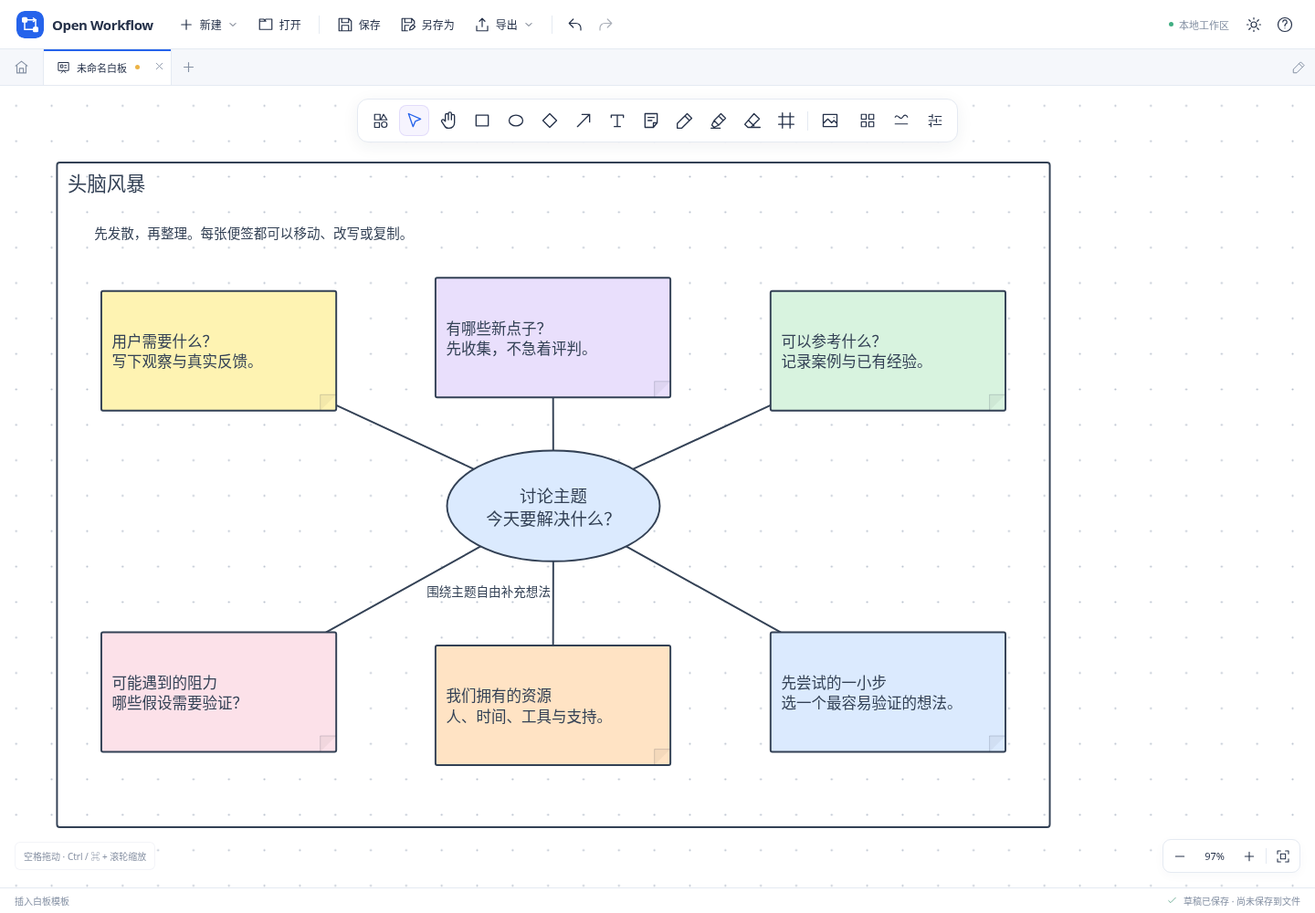
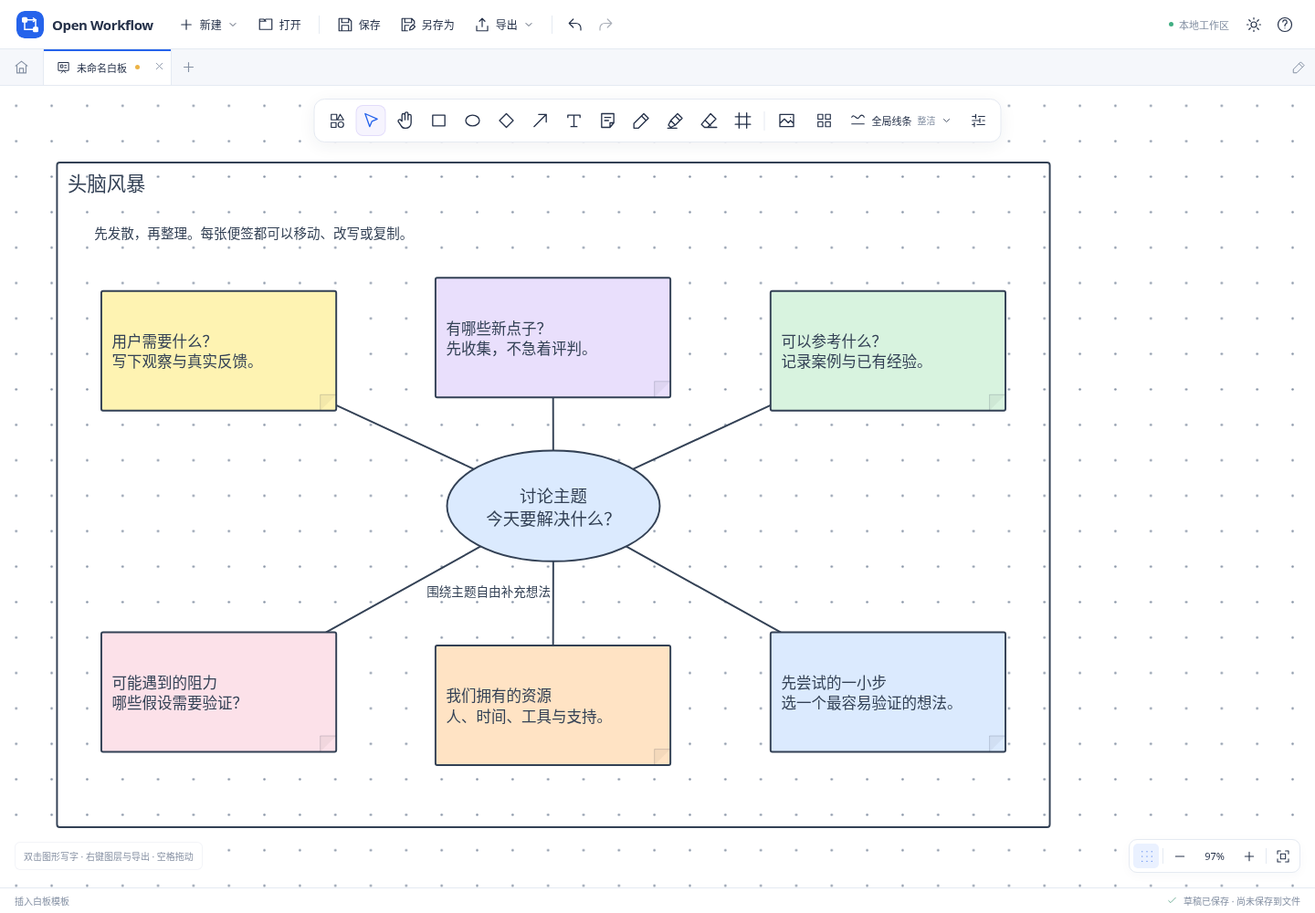
Improve canvas grid contrast and editing controls

Changed region(s): [[0.25, 0.124, 0.7188, 0.155], [0.0312, 0.93, 0.1562, 0.961]]

diff --git a/src/components/SceneEditor.vue b/src/components/SceneEditor.vue
@@ -10,7 +10,7 @@ import { findBindingTarget } from '../core/binding'
 import { expandedSelection, groupElements, ungroupElements, alignElements, distributeElements, hitTestElement, frameContents } from '../core/board-tools'
 import { selectionScene, reorderElements } from '../core/selection'
 import { clone, newId, type EdgeElement, type ElementStyle, type Point, type Scene, type SceneElement, type ShapeElement } from '../core/types'
-import { center, combineBounds, edgePoints, elementBounds, pathMidpoint, sceneBounds, snap, type Bounds } from '../core/geometry'
+import { center, combineBounds, edgePoints, elementBounds, pathMidpoint, sceneBounds, shapeAnchor, snap, type Bounds } from '../core/geometry'
 import { elementToSvg, safeImageData } from '../core/svg'
 import { layoutScene } from '../core/layout'
 import { validateScene } from '../core/documents'
@@ -24,7 +24,13 @@ const viewport = ref({ x: 0, y: 0, zoom: 1, width: 900, height: 600 }), spaceHel
 const propertiesOpen = ref(typeof window === 'undefined' || window.innerWidth > 1000), activeStyle = ref<ElementStyle>(sceneDefaultStyle(props.scene)), snapEnabled = ref(false)
 const boardTemplatesOpen = ref(false)
 const libraryOpen = ref(false), globalStyleOpen = ref(false), bindingTarget = ref<ShapeElement>(), contextMenu = ref<{ x: number; y: number }>()
-const gridId = newId('grid'), grid = computed(() => canvasGrid(viewport.value.zoom, draft.value.background))
+const gridId = newId('grid'), grid = computed(() => canvasGrid(viewport.value.zoom, draft.value.background, props.theme === 'dark' ? '#141922' : '#f5f7fb'))
+const bindingAnchors = computed(() => {
+  const node = bindingTarget.value
+  if (!node) return []
+  const point = center(node)
+  return [{ x: point.x, y: node.y - 1 }, { x: node.x + node.width + 1, y: point.y }, { x: point.x, y: node.y + node.height + 1 }, { x: node.x - 1, y: point.y }].map(toward => shapeAnchor(node, toward))
+})
 const globalStyle = computed(() => sceneDefaultStyle(draft.value))
 let flushing = false, captureTarget: Element | undefined
 const pendingControls = new WeakSet<Element>()
@@ -310,7 +316,7 @@ function groupSelection(ungroup = false) { flush(); draft.value = ungroup ? ungr
 function alignSelection(mode: 'left' | 'center' | 'right' | 'top' | 'middle' | 'bottom') { flush(); draft.value = alignElements(draft.value, selected.value, mode); commit('对齐元素'); focusStage() }
 function distributeSelection(axis: 'horizontal' | 'vertical') { flush(); draft.value = distributeElements(draft.value, selected.value, axis); commit('均匀分布元素'); focusStage() }
 function toggleLock() { const lock = !selectedElements.value.every(e => e.locked); for (const e of selectedElements.value) e.locked = lock; commit(lock ? '锁定图形' : '解锁图形') }
-function toggleGrid() { draft.value.grid = !draft.value.grid; commit('切换网格') }
+function toggleGrid() { flush(); draft.value.grid = !draft.value.grid; commit('切换网格') }
 function autoLayout() { flush(); draft.value = layoutScene(draft.value); commit('自动布局'); nextTick(fitCanvas) }
 async function importImage(event: Event) {
   const input = event.target as HTMLInputElement, file = input.files?.[0]; input.value = ''; if (!file) return; flush(); if (!canAdd()) return
@@ -350,7 +356,7 @@ onBeforeUnmount(() => { releaseCapture(); observer?.disconnect(); window.removeE
         <span class="tool-divider" />
         <button aria-label="插入图片" title="插入本地图片" @click="imageInput?.click()"><AppIcon name="image" :size="20" /></button>
       </div>
-      <div class="commandbar-actions"><button v-if="mode === 'board'" aria-label="白板模板" title="白板模板" :aria-expanded="boardTemplatesOpen" @click="flush(); globalStyleOpen = false; boardTemplatesOpen = !boardTemplatesOpen" data-testid="board-template-toggle"><AppIcon name="templates" /></button><button aria-label="全局线条风格" title="全局线条风格" :aria-expanded="globalStyleOpen" @click="flush(); boardTemplatesOpen = false; globalStyleOpen = !globalStyleOpen" data-testid="global-style-toggle"><AppIcon name="style" /></button><button v-if="mode === 'flow'" class="text-button" @click="autoLayout" title="自动排列流程图">自动布局</button><button :aria-pressed="propertiesOpen" @click="propertiesOpen = !propertiesOpen" title="切换属性面板" aria-label="属性面板"><AppIcon name="sliders" /></button></div>
+      <div class="commandbar-actions"><button v-if="mode === 'board'" aria-label="白板模板" title="白板模板" :aria-expanded="boardTemplatesOpen" @click="flush(); globalStyleOpen = false; boardTemplatesOpen = !boardTemplatesOpen" data-testid="board-template-toggle"><AppIcon name="templates" /></button><button class="style-trigger" aria-label="全局线条风格" :title="`全局线条风格 · ${globalStyle.roughness === 'sketch' ? '手绘' : '整洁'}`" :aria-expanded="globalStyleOpen" @click="flush(); boardTemplatesOpen = false; globalStyleOpen = !globalStyleOpen" data-testid="global-style-toggle"><AppIcon name="style" /><span class="style-trigger-label">全局线条<small>{{ globalStyle.roughness === 'sketch' ? '手绘' : '整洁' }}</small></span><AppIcon class="style-trigger-chevron" name="chevron" :size="12" /></button><button v-if="mode === 'flow'" class="text-button" @click="autoLayout" title="自动排列流程图">自动布局</button><button :aria-pressed="propertiesOpen" @click="propertiesOpen = !propertiesOpen" title="切换属性面板" aria-label="属性面板"><AppIcon name="sliders" /></button></div>
       <div v-if="boardTemplatesOpen" class="board-template-popover"><BoardTemplatePanel @insert="insertBoardTemplate" @close="boardTemplatesOpen = false" /></div>
       <div v-if="globalStyleOpen" class="global-style-panel" role="region" aria-label="全局线条风格" @keydown.escape.stop="globalStyleOpen = false; focusStage()">
         <div class="panel-heading">全局线条<button aria-label="关闭全局线条设置" @click="globalStyleOpen = false"><AppIcon name="close" :size="15" /></button></div>
@@ -365,18 +371,18 @@ onBeforeUnmount(() => { releaseCapture(); observer?.disconnect(); window.removeE
     <div class="canvas-workspace" :style="{ background: draft.background }">
       <aside v-if="libraryOpen" class="shape-library" aria-label="图形素材"><div class="panel-heading">图形素材 <button aria-label="关闭图形素材" @click="libraryOpen = false"><AppIcon name="close" :size="15" /></button></div><div class="library-caption">选择形状后在画布上拖动</div><div class="shape-grid"><button v-for="item in shapePalette" :key="item.shape" @click="setTool(item.shape)" :aria-pressed="tool === item.shape" :aria-label="`绘制${item.text}`"><AppIcon :name="item.icon" :size="27" /><small>{{ item.text }}</small></button></div><div class="library-hint">双击图形编辑文字<br />连线工具连接两个图形<br />按住空格移动画布</div></aside>
       <div ref="stage" class="canvas-stage" :class="{ 'is-panning': spaceHeld || tool === 'hand', 'is-drawing': !['select', 'hand'].includes(tool) }" tabindex="0" role="application" aria-label="绘图画布" data-testid="canvas-stage" @pointerdown="pointerDown($event)" @pointermove="pointerMove" @pointerup="pointerUp" @pointercancel="cancelGesture" @wheel.prevent="wheel" @dblclick="backgroundDoubleClick" @contextmenu="openContextMenu" @pointerleave="!gesture && (bindingTarget = undefined)">
-        <svg class="scene-svg" :viewBox="viewBox" width="100%" height="100%" aria-label="工作流画布" :style="{ background: draft.background }">
+        <svg class="scene-svg" :viewBox="viewBox" width="100%" height="100%" aria-label="工作流画布">
           <defs><pattern :id="gridId" patternUnits="userSpaceOnUse" :x="-grid.step / 2" :y="-grid.step / 2" :width="grid.step" :height="grid.step" data-testid="canvas-grid-pattern"><circle :cx="grid.step / 2" :cy="grid.step / 2" :r="grid.radius" :fill="grid.color" :opacity="grid.opacity" /></pattern></defs>
           <rect v-if="draft.grid" :x="viewport.x" :y="viewport.y" :width="viewport.width / viewport.zoom" :height="viewport.height / viewport.zoom" :fill="`url(#${gridId})`" data-testid="canvas-grid" />
           <g v-for="element in draft.elements" :key="element.id" :data-element-id="element.id" :data-element-type="element.type" :class="{ 'canvas-element': true, 'element-locked': element.locked }" @pointerdown="pointerDown($event, element)" @dblclick.stop="startEdit(element)" v-html="elementMarkup(element)" />
-          <g v-if="bindingTarget" class="binding-preview" pointer-events="none" :data-binding-target="bindingTarget.id" data-testid="binding-preview"><rect :x="bindingTarget.x - 5 / viewport.zoom" :y="bindingTarget.y - 5 / viewport.zoom" :width="bindingTarget.width + 10 / viewport.zoom" :height="bindingTarget.height + 10 / viewport.zoom" :rx="8 / viewport.zoom" fill="#7c6aee10" stroke="#7c6aee" :stroke-width="2 / viewport.zoom" /><circle v-for="(point, index) in [{ x: bindingTarget.x + bindingTarget.width / 2, y: bindingTarget.y }, { x: bindingTarget.x + bindingTarget.width, y: bindingTarget.y + bindingTarget.height / 2 }, { x: bindingTarget.x + bindingTarget.width / 2, y: bindingTarget.y + bindingTarget.height }, { x: bindingTarget.x, y: bindingTarget.y + bindingTarget.height / 2 }]" :key="index" :cx="point.x" :cy="point.y" :r="3.5 / viewport.zoom" fill="#ffffff" stroke="#7c6aee" :stroke-width="1.5 / viewport.zoom" /></g>
+          <g v-if="bindingTarget" class="binding-preview" pointer-events="none" :data-binding-target="bindingTarget.id" data-testid="binding-preview"><rect :x="bindingTarget.x - 5 / viewport.zoom" :y="bindingTarget.y - 5 / viewport.zoom" :width="bindingTarget.width + 10 / viewport.zoom" :height="bindingTarget.height + 10 / viewport.zoom" :rx="8 / viewport.zoom" fill="#7c6aee10" stroke="#7c6aee" :stroke-width="2 / viewport.zoom" /><circle v-for="(point, index) in bindingAnchors" :key="index" :cx="point.x" :cy="point.y" :r="3.5 / viewport.zoom" fill="#ffffff" stroke="#7c6aee" :stroke-width="1.5 / viewport.zoom" /></g>
           <g v-if="selectedBounds" class="selection-overlay" pointer-events="none"><rect :x="selectedBounds.x - 5 / viewport.zoom" :y="selectedBounds.y - 5 / viewport.zoom" :width="selectedBounds.width + 10 / viewport.zoom" :height="selectedBounds.height + 10 / viewport.zoom" fill="none" stroke="#7c6aee" :stroke-width="1.5 / viewport.zoom" :stroke-dasharray="selectedElements.length > 1 ? '6 4' : undefined" /><rect v-if="primary?.type === 'shape' && !primary.locked" :x="primary.x + primary.width - 5 / viewport.zoom" :y="primary.y + primary.height - 5 / viewport.zoom" :width="10 / viewport.zoom" :height="10 / viewport.zoom" fill="#ffffff" stroke="#7c6aee" :stroke-width="1.5 / viewport.zoom" pointer-events="all" class="resize-handle" data-testid="resize-handle" @pointerdown.stop="pointerDown($event, primary, true)" /></g>
           <g v-if="edgeHandles.length" class="edge-handles"><circle v-for="handle in edgeHandles" :key="handle.endpoint" :cx="handle.x" :cy="handle.y" :r="6 / viewport.zoom" :stroke-width="2 / viewport.zoom" fill="#fff" stroke="#7c6aee" :data-testid="`edge-handle-${handle.endpoint}`" @pointerdown.stop="startEndpointDrag($event, handle.endpoint)" /></g>
           <rect v-if="marquee" v-bind="marquee" fill="#7c6aee18" stroke="#7c6aee" :stroke-width="1 / viewport.zoom" pointer-events="none" />
         </svg>
         <textarea v-if="editingNode" ref="textInput" v-model="editText" maxlength="100000" class="inline-text-editor" :style="editPosition" :aria-label="editingNode.type === 'edge' ? '编辑连线文字' : '编辑图形文字'" @blur="flush" @keydown.escape.stop="editingId = undefined; focusStage()" @keydown.enter.ctrl.prevent="flush(); focusStage()" @keydown.enter.meta.prevent="flush(); focusStage()" @pointerdown.stop />
-        <div v-if="!draft.elements.length" class="empty-canvas"><div class="empty-canvas-icon"><AppIcon :name="mode === 'flow' ? 'flow' : 'pen'" :size="32" /></div><strong>{{ mode === 'flow' ? '让想法，顺着流程展开' : '留一块空白，给下一个好想法' }}</strong><span>从工具栏选择图形，或插入一张本地图片</span></div>
-        <div class="canvas-bottom" @pointerdown.stop><div class="canvas-hint">{{ selected.length ? `已选 ${selected.length} 个元素${selectedElements.some(e => e.locked) ? ' · 包含锁定元素' : ''}` : tool === 'edge' ? bindingTarget ? '松开即可连接 · 图形移动后连线自动跟随' : '拖到图形附近即可吸附 · 拖动端点可重新连接' : '空格拖动 · Ctrl / ⌘ + 滚轮缩放' }}</div><div class="zoom-controls"><button aria-label="缩小" @click.stop="zoomTo(viewport.zoom / 1.2)"><AppIcon name="minus" :size="16" /></button><button class="zoom-value" title="重置为 100%" @click.stop="zoomTo(1)">{{ zoomLabel }}</button><button aria-label="放大" @click.stop="zoomTo(viewport.zoom * 1.2)"><AppIcon name="plus" :size="16" /></button><span /><button aria-label="适应画布" title="适应画布 (0)" @click.stop="fitCanvas"><AppIcon name="fit" :size="16" /></button></div></div>
+        <div v-if="!draft.elements.length" class="empty-canvas"><div class="empty-canvas-icon"><AppIcon :name="mode === 'flow' ? 'flow' : 'pen'" :size="32" /></div><strong>{{ mode === 'flow' ? '让想法，顺着流程展开' : '留一块空白，给下一个好想法' }}</strong><span>选择图形开始绘制，双击图形输入文字</span><small>拖动箭头自动吸附 · 右键调整图层、导出</small></div>
+        <div class="canvas-bottom" @pointerdown.stop><div class="canvas-hint">{{ selected.length ? `已选 ${selected.length} 个元素${selectedElements.some(e => e.locked) ? ' · 包含锁定元素' : ''}` : tool === 'edge' ? bindingTarget ? '松开即可连接 · 图形移动后连线自动跟随' : '拖到图形附近即可吸附 · 拖动端点可重新连接' : '双击图形写字 · 右键图层与导出 · 空格拖动' }}</div><div class="zoom-controls"><button class="grid-toggle" aria-label="点阵网格" :title="draft.grid ? '隐藏点阵网格' : '显示点阵网格'" :aria-pressed="draft.grid" data-testid="canvas-grid-toggle" @click.stop="toggleGrid"><AppIcon name="grid-dots" :size="18" /></button><span /><button aria-label="缩小" @click.stop="zoomTo(viewport.zoom / 1.2)"><AppIcon name="minus" :size="16" /></button><button class="zoom-value" title="重置为 100%" @click.stop="zoomTo(1)">{{ zoomLabel }}</button><button aria-label="放大" @click.stop="zoomTo(viewport.zoom * 1.2)"><AppIcon name="plus" :size="16" /></button><span /><button aria-label="适应画布" title="适应画布 (0)" @click.stop="fitCanvas"><AppIcon name="fit" :size="16" /></button></div></div>
       </div>
       <aside v-if="propertiesOpen" class="properties-panel" aria-label="属性面板"><div class="panel-heading">{{ selected.length ? '图形属性' : '画布设置' }}<small v-if="selected.length">{{ selected.length }} 个</small><button aria-label="关闭属性面板" @click="propertiesOpen = false"><AppIcon name="close" :size="15" /></button></div>
         <template v-if="selected.length"><div v-if="primary?.type === 'shape' || primary?.type === 'edge'" class="property-section"><label :for="`element-text-${primary.id}`">{{ primary.type === 'edge' ? '连线标签' : '文字内容' }}</label><textarea ref="propertyTextInput" :id="`element-text-${primary.id}`" :value="primary.type === 'shape' ? primary.text : primary.label" :disabled="primary.locked" @change="updateText(($event.target as HTMLTextAreaElement).value)" rows="3" maxlength="100000" data-testid="property-text" /></div>
@@ -407,4 +413,7 @@ onBeforeUnmount(() => { releaseCapture(); observer?.disconnect(); window.removeE
 @media(max-width:540px){.toolset button[aria-label="判断"],.toolset button[aria-label="移动画布"]{display:grid}.toolset button{width:31px}.canvas-commandbar{gap:3px}.commandbar-actions{gap:1px}.commandbar-actions button{width:30px}.empty-canvas{top:46%}}
 .alignment-buttons{display:grid;grid-template-columns:repeat(4,1fr);gap:5px;margin-top:9px}.alignment-buttons button{display:grid;place-items:center;height:30px;border:1px solid var(--ui-line);background:var(--ui-bg);border-radius:5px}.group-hint{font-size:10px;line-height:1.7;color:var(--ui-muted);margin:12px 0 0}.note-color-palette{display:grid;grid-template-columns:repeat(6,1fr);gap:5px}.note-color-palette button{display:grid;place-items:center;height:24px;border:1px solid #33415522;border-radius:5px;color:#334155}.property-buttons button{display:flex;align-items:center;justify-content:center;gap:4px}.scene-editor button:disabled{opacity:.4;cursor:default}.shape-grid button[aria-pressed=true]{border-color:var(--ui-accent);background:#8670ef12}.zoom-controls button{display:grid;place-items:center}
 .board-template-popover{position:absolute;right:0;top:56px;width:310px;max-width:calc(100vw - 40px);z-index:11}
+.commandbar-actions .style-trigger{display:flex;width:auto;gap:6px;padding:0 7px;white-space:nowrap}.style-trigger-label{display:flex;align-items:center;gap:6px;font-size:11px}.style-trigger-label small{color:var(--ui-muted);font-size:10px}.commandbar-actions .style-trigger[aria-expanded=true],.zoom-controls .grid-toggle[aria-pressed=true]{color:var(--ui-accent);background:var(--ui-soft);border-color:var(--ui-line)}.empty-canvas small{font-size:10px;line-height:1.6;color:#727f93}.canvas-hint{max-width:calc(100% - 220px)}
+@media(max-width:1100px){.commandbar-actions .style-trigger{width:33px;padding:0;justify-content:center}.style-trigger-label,.style-trigger-chevron{display:none}}
+@media(max-width:540px){.commandbar-actions .style-trigger{width:30px}.empty-canvas small{font-size:9px}}
 </style>

diff --git a/src/core/grid.ts b/src/core/grid.ts
@@ -1,12 +1,85 @@
-/** Keep dots visible on screen while retaining a grid aligned to world coordinates. */
-export function canvasGrid(zoom: number, background: string) {
-  const scale = Math.max(0.1, Math.min(4, Number.isFinite(zoom) ? zoom : 1))
+type Rgb = [number, number, number]
+type Rgba = [number, number, number, number]
+const WHITE: Rgb = [255, 255, 255]
+// The named colors accepted by documents.safeColor, including its CSS aliases.
+const NAMED: Record<string, string> = {
+  black: '000000', white: 'ffffff', red: 'ff0000', blue: '0000ff', green: '008000', yellow: 'ffff00',
+  orange: 'ffa500', purple: '800080', gray: '808080', grey: '808080', pink: 'ffc0cb', cyan: '00ffff',
+  magenta: 'ff00ff', navy: '000080', teal: '008080', lime: '00ff00', maroon: '800000', olive: '808000',
+  silver: 'c0c0c0', aqua: '00ffff', fuchsia: 'ff00ff', rebeccapurple: '663399',
+}
+const clamp = (value: number, maximum = 1) => Math.min(maximum, Math.max(0, value))
+function component(token: string, maximum: number): number | undefined {
+  if (!/^(?:\d+(?:\.\d+)?|\.\d+)%?$/.test(token)) return undefined
+  const value = parseFloat(token)
+  return Number.isFinite(value) ? clamp(token.endsWith('%') ? value * maximum / 100 : value, maximum) : undefined
+}
+function parseColor(input: string): Rgba | undefined {
+  const value = input.trim().toLowerCase()
+  if (value === 'transparent' || value === 'none') return [0, 0, 0, 0]
+  const hex = Object.hasOwn(NAMED, value) ? NAMED[value] : value.match(/^#([\da-f]{3}|[\da-f]{4}|[\da-f]{6}|[\da-f]{8})$/)?.[1]
+  if (hex) {
+    const expanded = hex.length <= 4 ? [...hex].map(character => character + character).join('') : hex
+    return [parseInt(expanded.slice(0, 2), 16), parseInt(expanded.slice(2, 4), 16), parseInt(expanded.slice(4, 6), 16), expanded.length === 8 ? parseInt(expanded.slice(6), 16) / 255 : 1]
+  }
+  const functional = value.match(/^(rgba?|hsla?)\(([^()]*)\)$/)
+  if (!functional) return undefined
+  const body = functional[2]!, comma = body.includes(',')
+  let channels: string[], alpha = '1'
+  if (comma) {
+    if (body.includes('/')) return undefined
+    channels = body.split(',').map(token => token.trim())
+    if (channels.length === 4) alpha = channels.pop()!
+  } else {
+    const parts = body.split('/')
+    if (parts.length > 2) return undefined
+    channels = parts[0]!.trim().split(/\s+/)
+    if (parts.length === 2) alpha = parts[1]!.trim()
+  }
+  if (channels.length !== 3) return undefined
+  const opacity = component(alpha, 1)
+  if (opacity === undefined) return undefined
+  if (functional[1]!.startsWith('rgb')) {
+    // Legacy comma syntax requires three percentages or three numbers.
+    if (comma && channels.some(channel => channel.endsWith('%')) && !channels.every(channel => channel.endsWith('%'))) return undefined
+    const values = channels.map(token => component(token, 255))
+    return values.every(channel => channel !== undefined) ? [values[0]!, values[1]!, values[2]!, opacity] : undefined
+  }
+  if (!/^(?:\d+(?:\.\d+)?|\.\d+)$/.test(channels[0]!) || (comma && (!channels[1]!.endsWith('%') || !channels[2]!.endsWith('%')))) return undefined
+  const hue = Number(channels[0]) % 360 / 60, saturationValue = component(channels[1]!, 100), lightnessValue = component(channels[2]!, 100)
+  if (!Number.isFinite(hue) || saturationValue === undefined || lightnessValue === undefined) return undefined
+  const saturation = saturationValue / 100, lightness = lightnessValue / 100
+  const chroma = (1 - Math.abs(2 * lightness - 1)) * saturation, second = chroma * (1 - Math.abs(hue % 2 - 1)), offset = lightness - chroma / 2
+  const base: Rgb = hue < 1 ? [chroma, second, 0] : hue < 2 ? [second, chroma, 0] : hue < 3 ? [0, chroma, second] : hue < 4 ? [0, second, chroma] : hue < 5 ? [second, 0, chroma] : [chroma, 0, second]
+  return [(base[0] + offset) * 255, (base[1] + offset) * 255, (base[2] + offset) * 255, opacity]
+}
+function composite(color: Rgba, underlay: Rgb): Rgb {
+  const alpha = color[3]
+  return [color[0] * alpha + underlay[0] * (1 - alpha), color[1] * alpha + underlay[1] * (1 - alpha), color[2] * alpha + underlay[2] * (1 - alpha)]
+}
+function luminance(rgb: Rgb): number {
+  const linear = rgb.map(value => { const channel = value / 255; return channel <= .04045 ? channel / 12.92 : ((channel + .055) / 1.055) ** 2.4 })
+  return linear[0]! * .2126 + linear[1]! * .7152 + linear[2]! * .0722
+}
+function contrast(a: number, b: number): number { return (Math.max(a, b) + .05) / (Math.min(a, b) + .05) }
+
+/** Screen-sized dots on a world-aligned grid; transparent backgrounds blend over the actual canvas underlay. */
+export function canvasGrid(zoom: number, background: string, underlay = '#ffffff') {
+  const scale = Math.max(.1, Math.min(4, Number.isFinite(zoom) ? zoom : 1))
   const step = 20 * 2 ** Math.ceil(Math.log2(1 / scale))
-  const hex = background.replace(/^#/, '')
-  const rgb = /^[\da-f]{6}$/i.test(hex) ? [0, 2, 4].map(i => parseInt(hex.slice(i, i + 2), 16))
-    : /^[\da-f]{3}$/i.test(hex) ? [...hex].map(c => parseInt(c + c, 16))
-      : background.match(/^rgba?\(/i) ? (background.match(/[\d.]+/g) || []).slice(0, 3).map(Number)
-        : background.toLowerCase() === 'black' ? [0, 0, 0] : [255, 255, 255]
-  const light = (rgb[0]! * .2126 + rgb[1]! * .7152 + rgb[2]! * .0722) > 140
-  return { step, radius: 1.05 / scale, color: light ? '#8290a6' : '#a7b6cf', opacity: light ? .6 : .55 }
+  const base = composite(parseColor(underlay) ?? [255, 255, 255, 1], WHITE)
+  const rendered = composite(parseColor(background) ?? [0, 0, 0, 0], base), backdrop = luminance(rendered)
+  const candidates: Array<{ color: string; opacity: number; rgb: Rgb }> = [
+    { color: '#64748b', opacity: .8, rgb: [100, 116, 139] },
+    { color: '#cbd5e1', opacity: .75, rgb: [203, 213, 225] },
+  ]
+  const score = (candidate: typeof candidates[number]) => contrast(backdrop, luminance(composite([...candidate.rgb, candidate.opacity], rendered)))
+  let selected = score(candidates[0]!) >= score(candidates[1]!) ? candidates[0]! : candidates[1]!
+  // Midtone/custom backgrounds need a stronger pair; the normal palette can be
+  // nearly identical to the backdrop even after selecting its better contrast.
+  if (score(selected) < 3) {
+    const stronger = [{ color: '#1e293b', opacity: .85, rgb: [30, 41, 59] as Rgb }, { color: '#f8fafc', opacity: .85, rgb: [248, 250, 252] as Rgb }]
+    for (const candidate of stronger) if (score(candidate) > score(selected)) selected = candidate
+  }
+  return { step, radius: 1.25 / scale, color: selected.color, opacity: selected.opacity }
 }

diff --git a/src/components/AppIcon.vue b/src/components/AppIcon.vue
@@ -1,6 +1,7 @@
 <script setup lang="ts">
 withDefaults(defineProps<{ name: string; size?: number }>(), { size: 18 })
 const paths: Record<string, string> = {
+  'grid-dots': 'M5 5h.01M12 5h.01M19 5h.01M5 12h.01M12 12h.01M19 12h.01M5 19h.01M12 19h.01M19 19h.01',
   triangle: 'm12 3 10 18H2z', hexagon: 'm7 3 10 0 5 9-5 9H7l-5-9z', star: 'm12 2 3 6 7 1-5 5 1 7-6-3-6 3 1-7-5-5 7-1z', parallelogram: 'M7 4h15l-5 16H2z',
   cylinder: 'M3 6c0-4 18-4 18 0s-18 4-18 0v12c0 4 18 4 18 0V6', cloud: 'M6 18a4 4 0 1 1-.5-8A6 6 0 0 1 17 7a5.5 5.5 0 0 1 1 11z',
   palette: 'M12 3a9 9 0 0 0 0 18h1a2 2 0 0 0 1-4c-1-1 0-3 2-3h2a4 4 0 0 0 3-4 9 9 0 0 0-9-7M7 8h.01M12 6h.01M17 9h.01M6 13h.01',

diff --git a/README.md b/README.md
@@ -11,8 +11,8 @@ Open Workflow 0.1.0 正在开发中，暂未发布正式安装包。编辑器使
 - **流程图**：矩形、椭圆、菱形、三角形、六边形、星形、平行四边形、圆柱、云形，以及文字、便签和自动布局；直线/正交连线靠近图形真实边缘时自动吸附，支持拖动端点重新连接，图形移动或缩放后连线跟随。
 - **自由白板**：手绘笔迹、半透明荧光笔、按元素擦除的橡皮擦、彩色便签、本地 PNG/JPEG/WebP 图片与分区框架；拖动框架可带动完整包围的未锁定内容。提供组合/取消组合、六种对齐及水平/垂直等距分布。
 - **白板模板**：头脑风暴、四象限分析、任务看板、会议复盘，一次插入可编辑图形与便签，保留已有内容；插入后可以整体撤销。
-- **画布操作**：流程图和白板共享平移缩放、自适应点阵与悬浮工具栏，图形素材库默认收起。工作台、画布、文字绘图和模板入口统一使用本项目的 SVG 操作图标。
-- **线条外观**：整洁/手绘、实线/虚线/点线、线宽和颜色可全局调整，也可独立修改选中图形；全局设置同时应用于现有元素与之后创建的元素，明确包含锁定元素。
+- **画布操作**：流程图和白板共享平移缩放、自适应点阵与悬浮工具栏，右下角可直接开关点阵，灰色或深色背景也保持清晰。图形素材库默认收起，所有工作区的操作图标统一使用 SVG。
+- **线条外观**：顶部“全局线条”显示当前整洁/手绘模式，可统一调整实线/虚线/点线、线宽和颜色，也可独立修改选中图形；全局设置同时应用于现有元素与之后创建的元素，明确包含锁定元素。
 - **直接编辑**：双击图形或连线修改文字，选择工具下双击空白处创建文字；右键菜单提供文字编辑、复制、锁定、删除，以及置顶、置底、上移一层、下移一层。
 - **文字绘图**：自研解析、布局与绘制覆盖 22 类 Mermaid 图表，提供分类、搜索和各类模板，显示预览、行号、语法错误与兼容提示；可创建独立的流程图副本继续编辑。每类支持明确的语法子集，详见 [格式说明](docs/FORMATS.md#mermaid-子集)。
 - **统一工作台**：多文档标签、重命名、最近文档搜索、浅色/深色/跟随系统外观，以及本地草稿恢复。

diff --git a/docs/ARCHITECTURE.md b/docs/ARCHITECTURE.md
@@ -61,7 +61,7 @@ flowchart LR
 
 节点移动或调整尺寸后，SVG 使用最新场景重新计算路径；端点拖到吸附范围外可成为自由端点。绑定持久化的是节点 ID，可见落点按路由重新计算，不保存鼠标吸附时的固定端口位置。直线和正交线采用基本几何路由，没有障碍物避让或复杂布线求解器。
 
-点阵对齐世界坐标原点，随缩放调整显示间距，并反向调整点的世界坐标半径，使屏幕上的点保持可见；点色根据画布背景选择。点阵是视图辅助，不进入 SVG/PNG 导出。可选的网格吸附与点阵显示分开，位置吸附使用固定的 20 个世界坐标单位。
+点阵对齐世界坐标原点，屏幕间距随缩放维持在 20–40 像素，半径维持 1.25 像素。点色根据实际背景的相对亮度选择，并计算透明度混合后的对比度；百分比 RGB、HSL、命名色及透明色使用相同的判断。文档背景只在画布容器绘制一次，透明部分叠在当前主题底色上。右下角可直接开关点阵，开关状态随文档保存并支持撤销。点阵不进入 SVG/PNG 导出。可选的网格吸附与点阵显示分开，位置吸附使用固定的 20 个世界坐标单位。
 
 工具栏悬浮于画布上方，图形素材库默认收起。工作台、画布、文字绘图、模板面板和右键操作使用共用 `AppIcon` 的 SVG 路径，操作图标不依赖字符字体或远程图标服务。双击图形或连线进入文字编辑；选择工具下双击空白处创建文字。右键菜单调用同一套编辑操作，提供置顶、置底、上移一层、下移一层、文字编辑、复制、锁定/解锁、删除及图像导出。
 
